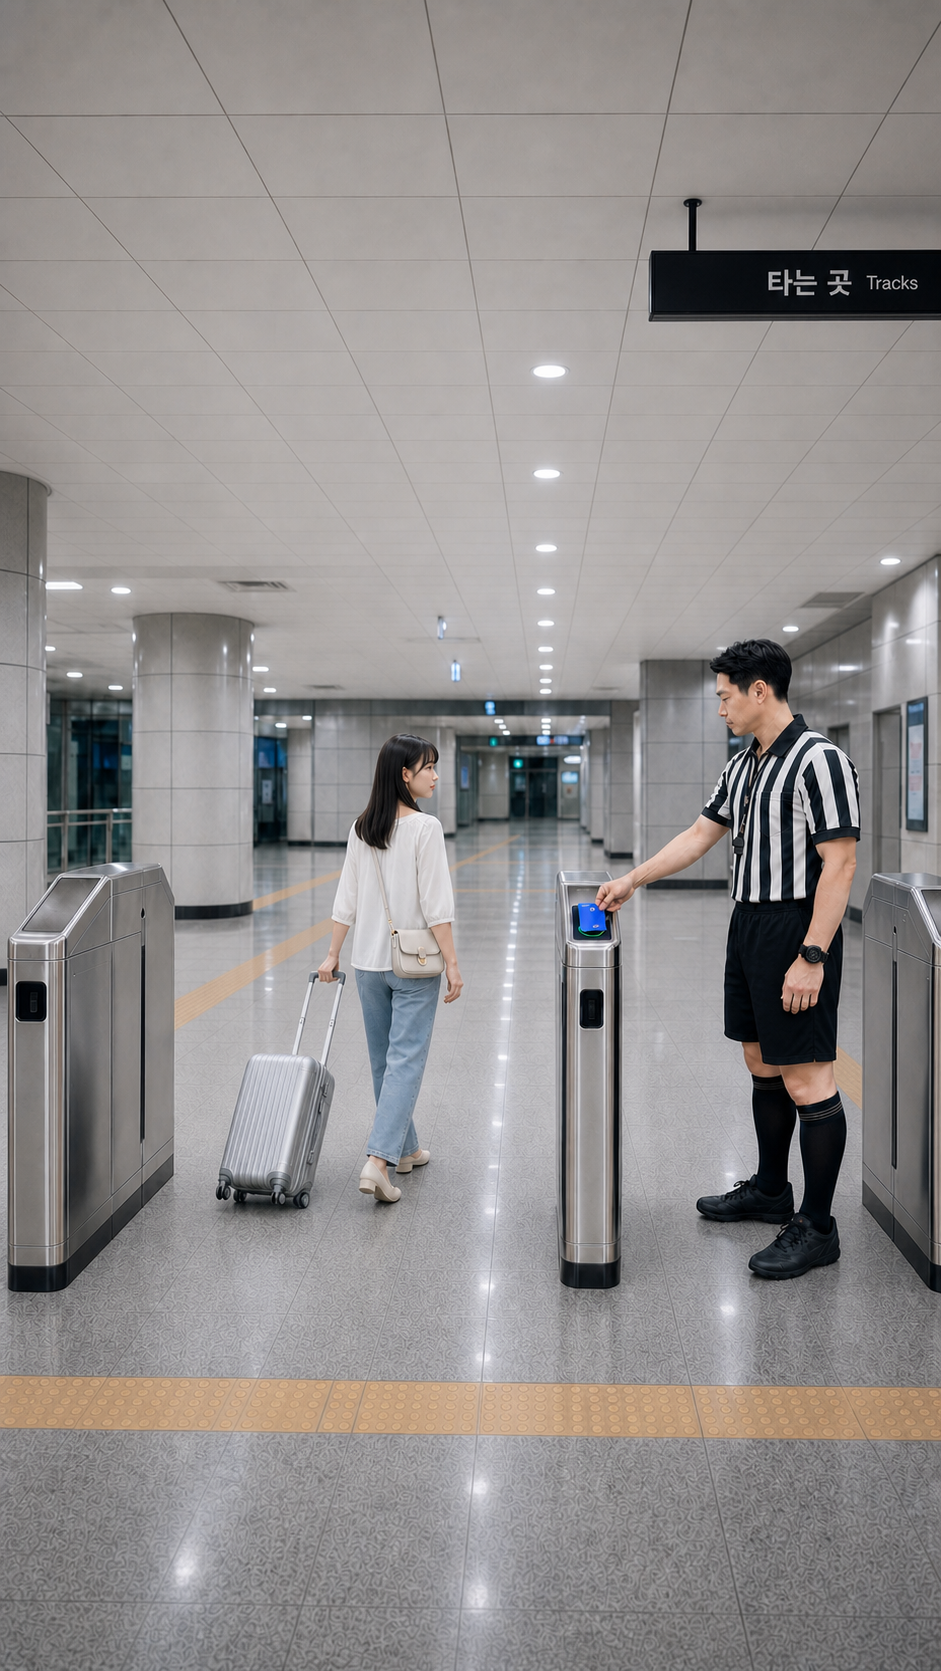
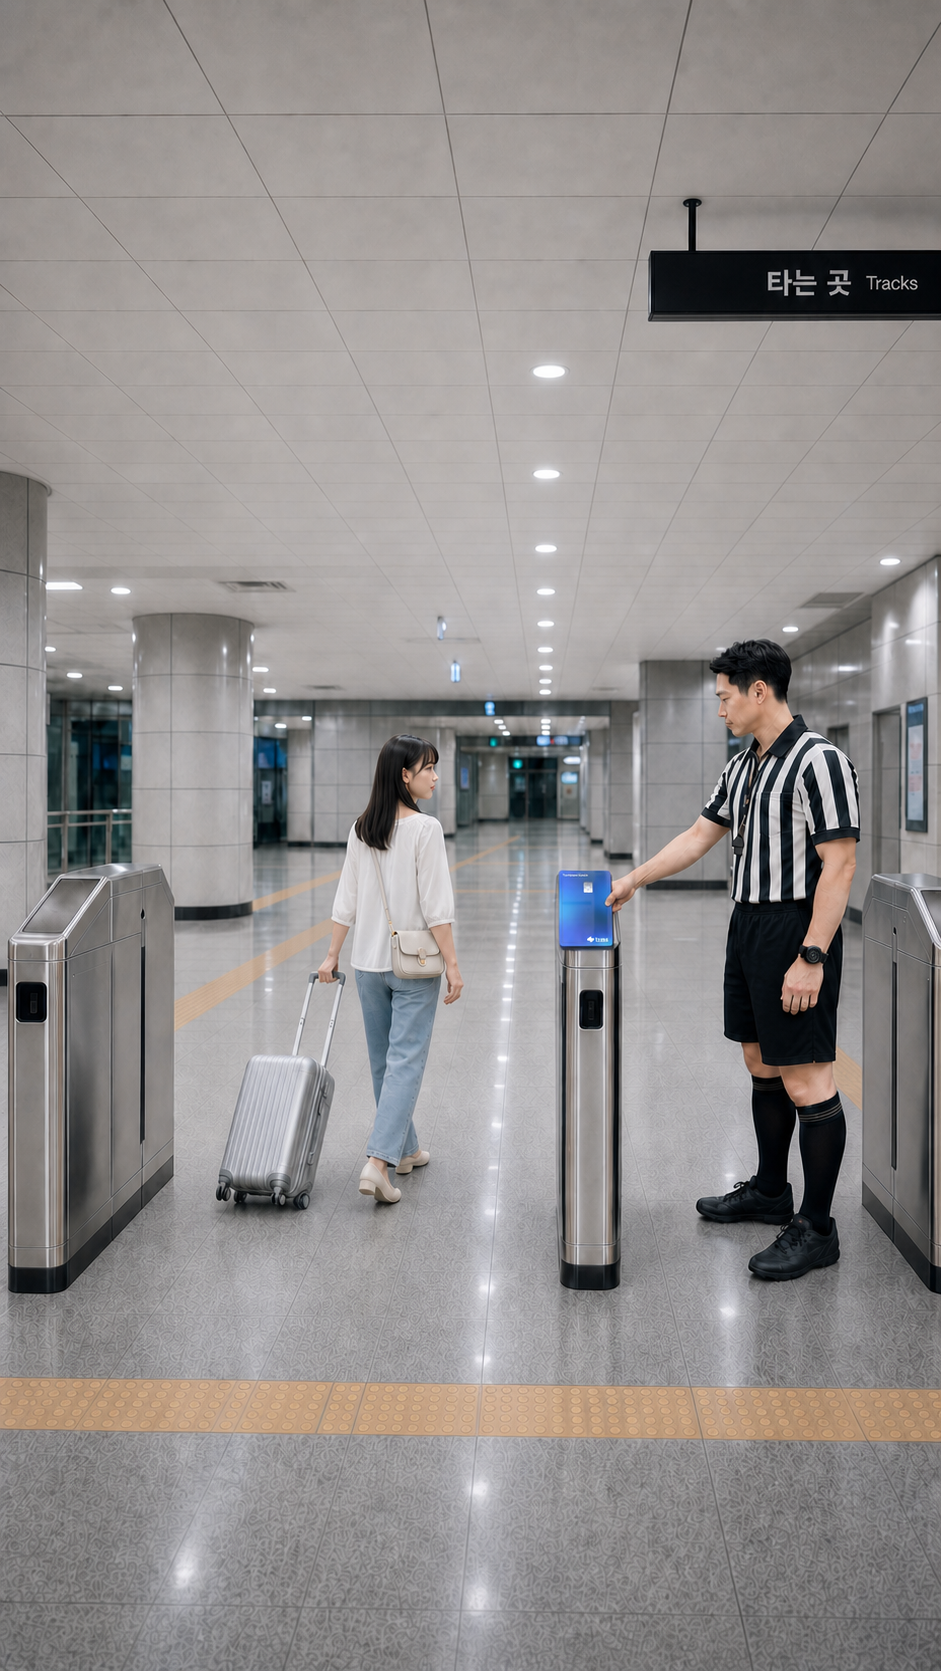
fix: lock cards and final product artwork

diff --git a/edit/storyboard_gpt2/review/qa-report.md b/edit/storyboard_gpt2/review/qa-report.md
@@ -18,7 +18,7 @@
 | 컷 | 판정 | 핵심 확인 |
 |---|---|---|
 | S01 | PASS | A05의 빈 개찰구 홀과 물리적 Tracks 패널을 먼저 보여 장소·진행 방향이 즉시 읽힌다. |
-| S02 | PASS | 첫 실패. 관광객의 엄격한 뒷모습, 마지막 반 걸음, 뒤왼쪽으로 굴러오는 캐리어, 오른손 회색 카드와 G3 X가 확인된다. |
+| S02 | PASS | 첫 실패. 관광객의 엄격한 뒷모습, 마지막 반 걸음, 뒤왼쪽으로 굴러오는 캐리어, 오른손의 경계가 분명한 중성 무광 다크그레이 카드와 G3 X가 확인된다. |
 | S03 | PASS | 두 번째 실패의 메인 비트. 같은 리더·가방·회색 카드·오른손을 유지한다. |
 | S03A | PASS | 두 번째 실패의 45도 하이 앵글 제어 프레임. 작은 손목 보정과 리더 X가 명확하다. |
 | S03B | PASS | 세 번째 실패의 reader-level 바텀 제어 프레임. 카드·오른손 전경과 아래쪽 접점 시선이 유지된다. |
@@ -32,15 +32,15 @@
 | S09 | PASS | A05 게이트 옆 투샷에서 관광객은 왼쪽, 심판은 오른쪽, 둘 사이에 리더가 있어 관계가 명확하다. |
 | S10 | PASS | 심판이 오른손으로 가슴 주머니에서 정확한 TOSS 카드 상단 약 1/3만 꺼내며 왼손목 시계가 남아 있다. |
 | S11 | PASS | 정확한 카드 한 장만 오른손으로 높이 든다. 블루·골드 방사광은 카드 뒤에만 제한된다. |
-| S12 | PASS | 심판은 게이트 오른쪽에 서서 시계 없는 **오른손**으로 태그한다. 검은 시계가 있는 **왼손목**은 아래에 있고 리더는 녹색 성공 상태다. |
-| S13 | PASS | G3 양쪽 플랩은 하우징 안으로 완전히 수납되어 보행·캐리어 통로가 비어 있다. 심판의 오른손 태그·내린 왼손목 시계·상단 좌측 30–35% 카피 여백이 유지된다. 실제 Tracks 패널은 상단 오른쪽에 남을 수 있다. |
+| S12 | PASS | 심판은 게이트 오른쪽에 서서 시계 없는 **오른손**으로 태그한다. 검은 시계가 있는 **왼손목**은 아래에 있고 리더는 녹색 성공 상태다. 정식 제품 PNG의 은색 칩, `Toss Prepaid Card`, 하단 `toss` 심벌·워드마크가 한 장의 세로 카드에 식별된다. |
+| S13 | PASS | G3 양쪽 플랩은 하우징 안으로 완전히 수납되어 보행·캐리어 통로가 비어 있다. 심판의 오른손 태그·내린 왼손목 시계·상단 좌측 30–35% 카피 여백이 유지된다. 카드가 적정 크기로 확대되어 정식 칩·상단 타이틀·하단 `toss` 워드마크가 식별되며 실제 Tracks 패널은 상단 오른쪽에 남는다. |
 
 ## 연속성·제품 체크
 
 - PASS — 관광객은 `tourist_lock_JP_v2.jpg`의 동일 인물·의상·가방·캐리어를 유지한다.
 - PASS — 심판은 `referee_lock_A.png`의 동일 얼굴·유니폼·호루라기·시계를 유지한다.
 - PASS — 실패는 정확히 세 번(S02, S03A, S03B)이며 모두 동일 무광 회색 일반 카드와 관광객의 오른손으로 이뤄진다. S04는 반응만이다.
-- PASS — TOSS 제품은 S10에서 부분 공개, S11–S13에서만 정확한 세로 카드 한 장으로 보인다.
+- PASS — TOSS 제품은 S10에서 부분 공개, S11–S13에서만 정확한 세로 카드 한 장으로 보이며 S12·S13은 정식 PNG의 칩·타이틀·`toss` 워드마크를 식별 가능하게 유지한다.
 - PASS — 공개 순서는 실패음 → 호루라기 붐업 → 심판 전신/접근 → 카드 추출 → 카드 선언 → 오른손 성공 태그 → 통과로 유지된다.
 - PASS — S06·S08은 A06 축을 공유하고, S09–S13은 A05로 돌아온다. S06에는 게이트·관광객·Tracks 패널이 없다.
 - PASS — S12·S13 모두 오른손 태그와 아래로 내린 왼손목 시계를 유지해 좌우 반전 오류가 없다.

diff --git a/edit/storyboard_gpt2/prompts/prompt-pack.md b/edit/storyboard_gpt2/prompts/prompt-pack.md
@@ -73,7 +73,7 @@ Inputs: A05/S03A = exact gate, card and second-attempt continuity; `tourist_lock
 
 ## S04
 
-Inputs: A05/S03B = exact gate, card and third-attempt continuity; `tourist_lock_JP_v2.jpg` = exact face, full bangs, eye shape, jawline and straight shoulder-length hair. Face reaction only, 70–85mm. Her gaze remains down at the card-reader contact point; eyebrows draw together slightly and lips part minimally in restrained puzzlement. Keep G3's red failure state and closed flap in soft contextual background. The same matte-gray unbranded card remains at the reader in her right hand. No TOSS card, no camera eye contact, no extra attempt, no exaggerated face or selfie angle.
+Inputs: A05/S03B = exact gate, card and third-attempt continuity; `tourist_lock_JP_v2.jpg` = exact face, full bangs, eye shape, jawline and straight shoulder-length hair. Face reaction only, 70–85mm. Her gaze remains down toward the now-offscreen card-reader contact point; eyebrows draw together slightly and lips part minimally in restrained puzzlement. Frame only the restrained facial reaction with no visible card, hand or reader. No TOSS card, no camera eye contact, no extra attempt, no exaggerated face or selfie angle.
 
 ## S05A
 
@@ -81,7 +81,7 @@ Inputs: S05 sketch = emphasis; referee sheet = identity; A03 = Korean setting. R
 
 ## S05B
 
-Inputs: S05 sketch = emphasis; referee sheet = identity; S05A = exact referee and body-axis continuity; A03 = Korean setting. Referee only. Tight head-and-shoulders sports-broadcast portrait of the same referee on the same vertical body axis, black whistle naturally at his mouth and full stern face visible. Striped shirt and lanyard preserved, restrained pale radial streaks at background edges. No tourist, card, stadium, captions or exaggerated expression.
+Inputs: S05 sketch = emphasis; referee sheet = identity; S05A = exact referee and body-axis continuity; A03 = Korean setting. Referee only. Tight head-and-shoulders sports-broadcast portrait of the same referee on the same vertical body axis, black whistle naturally at his mouth and full stern face visible. Striped shirt and lanyard preserved against the plain, photorealistic Korean station background. No radial streaks, rays or stylized effects; no tourist, card, stadium, captions or exaggerated expression.
 
 ## S06
 
